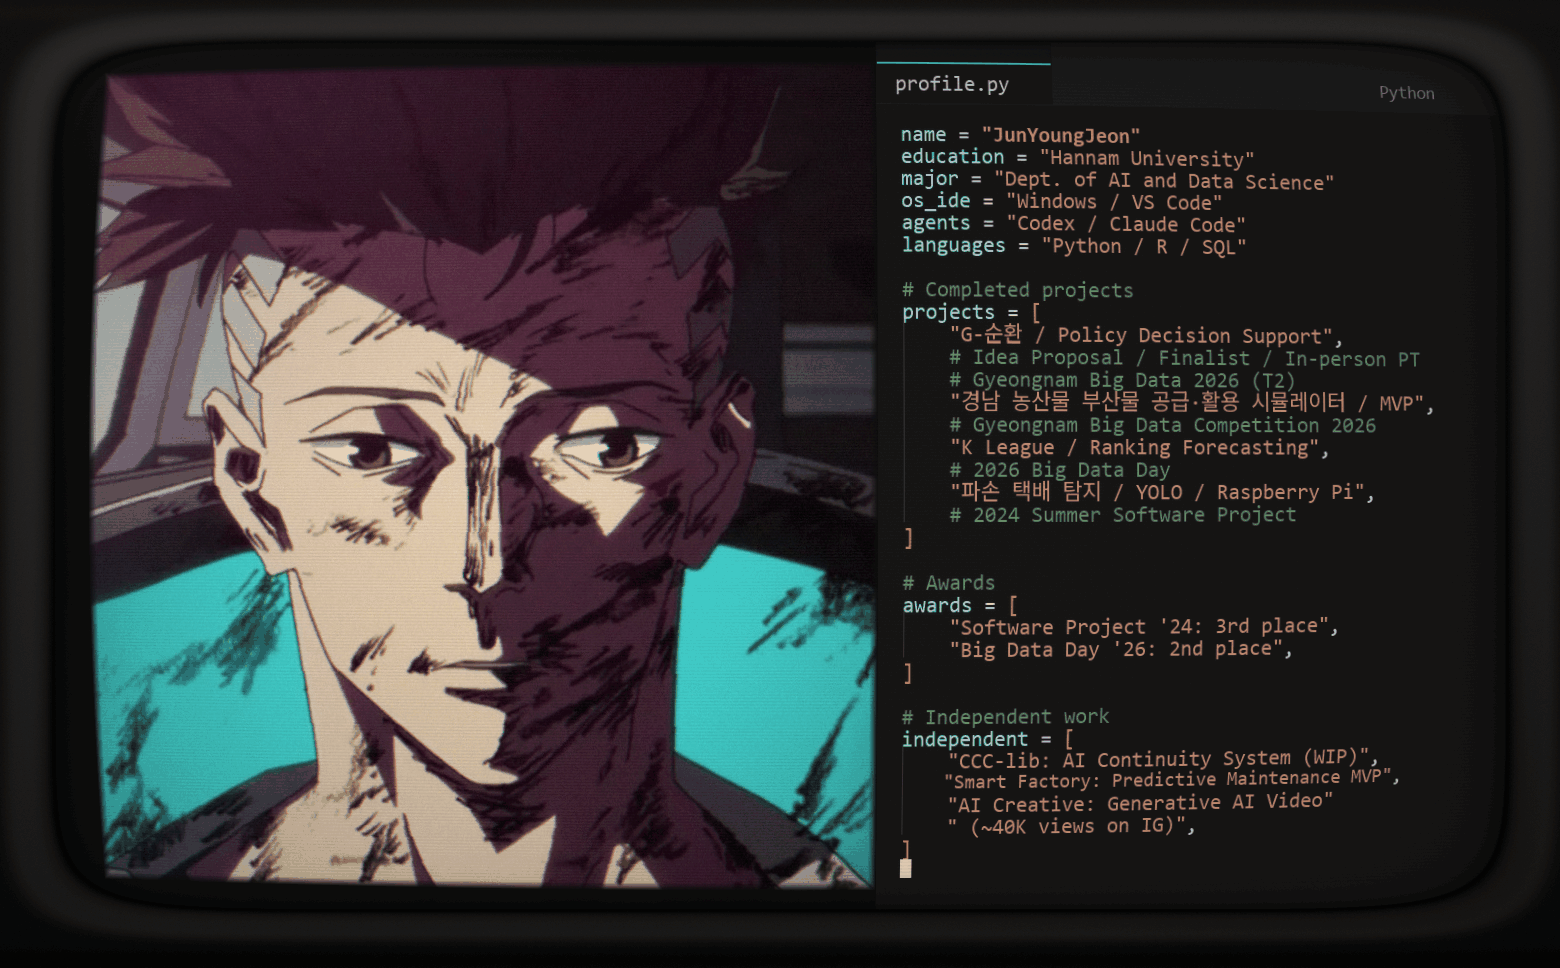
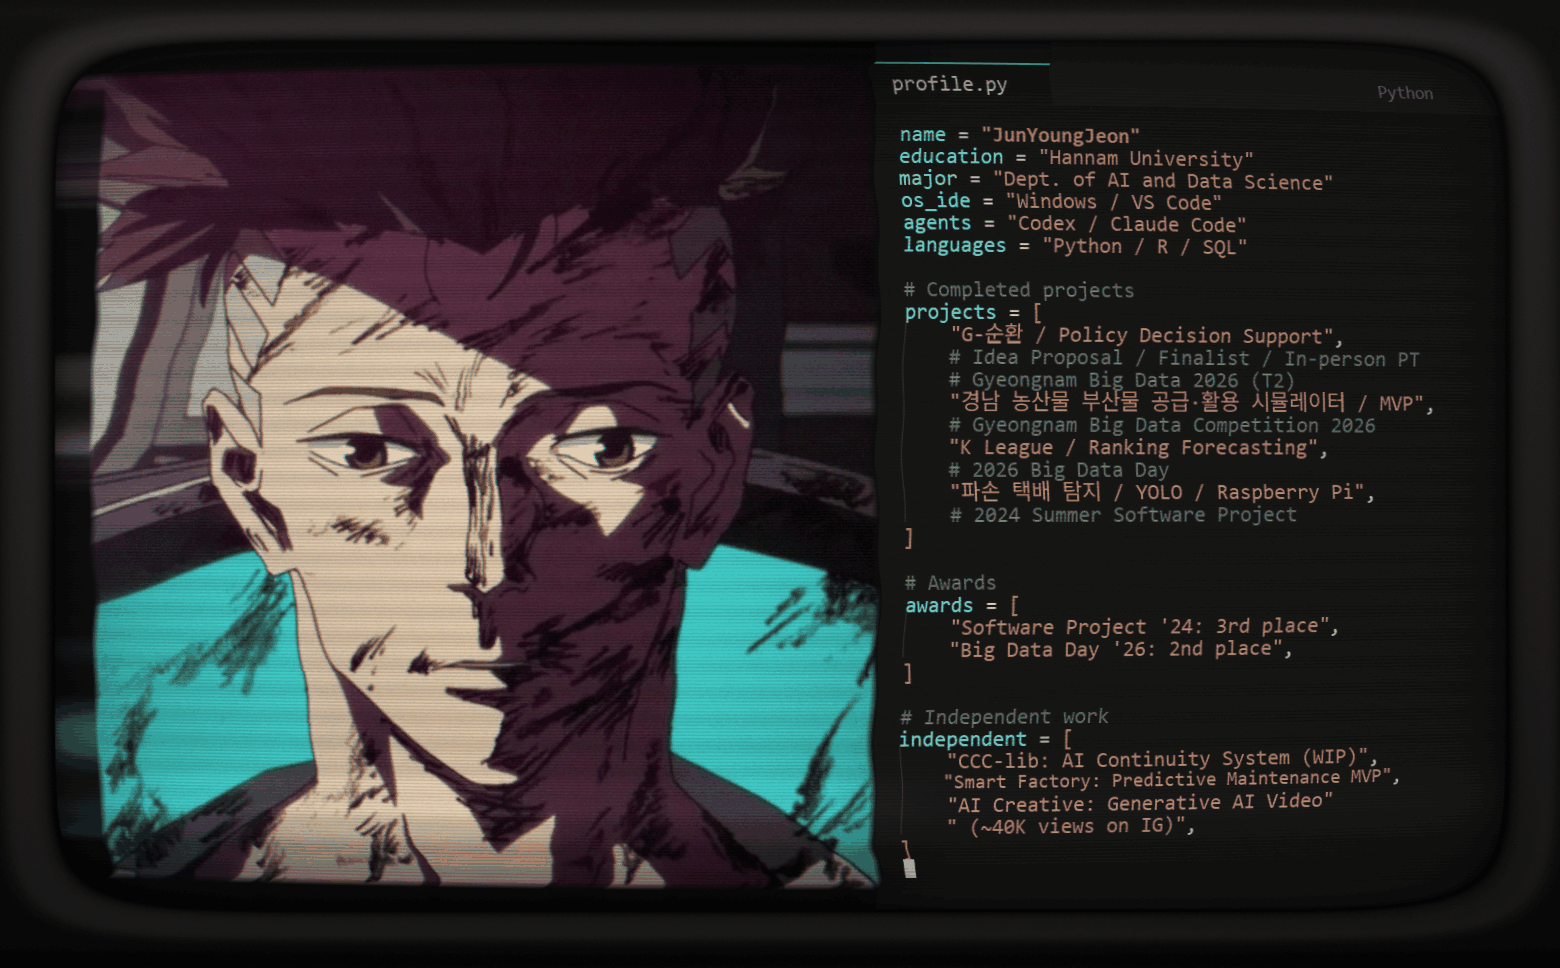
Enhance CRT rolling raster and horizontal sync waves

diff --git a/scripts/render_artisanal.py b/scripts/render_artisanal.py
@@ -195,8 +195,8 @@ class CRTGlass:
     """Procedural front-on CRT enclosure and curved glass projection.
 
     The source is the existing animated portrait and actual Python text,
-    not a generated mockup. All geometric and glass effects are static, so
-    the editor remains legible while the underlying portrait animates.
+    not a generated mockup. Glass geometry is static; animated raster effects are applied to the
+    signal before projection, with reduced strength in the editor.
     """
     def __init__(self):
         yy,xx=np.mgrid[0:OH,0:OW].astype(np.float32)
@@ -238,7 +238,7 @@ class CRTGlass:
         # Edge shadow follows the actual shape of the curved glass.
         edge_shadow=1-.44*np.exp(-np.maximum(dist,0)/12)
         glass_vignette=(1-.078*u*u-.055*v*v).clip(.70,1)
-        scan=1-.033*(np.cos(sy*math.pi*2/3.35)+1)*.5
+        scan=1-.105*(np.cos(sy*math.pi*2/3.35)+1)*.5
         self.gain=(edge_shadow*glass_vignette*scan)[...,None].astype(np.float32)
         # Broad, low-energy room reflection and a fine upper-edge glint.
         reflection=(4.6*np.exp(-((u+.61)/.51)**2-((v+.89)/.20)**2)
@@ -259,6 +259,41 @@ class CRTGlass:
         composite=curved*self.mask+self.case*(1-self.mask)
         return Image.fromarray(composite.clip(0,255).astype(np.uint8),"RGB")
 
+class RasterSignal:
+    """A rolling camera-versus-CRT refresh band, with analog sync drift.
+
+    Motion is periodic, not random flashing. The two panels share the same
+    moving raster; distortion and contrast are weaker over the code.
+    """
+    def __init__(self):
+        self.y,self.x=np.mgrid[0:H,0:W].astype(np.float32)
+        # Preserve text legibility without splitting the moving raster.
+        self.strength=1-.64*np.clip((self.x-(AW-20))/100,0,1)
+        self.yi=self.y.astype(np.int32)
+    def render(self,im,t):
+        phase=2*math.pi*t
+        # A wide dark retrace band and its softer luminous leading edge.
+        # Wrap in normalized screen coordinates for a continuous loop.
+        u=(self.y/H-t+.5)%1-.5
+        dark=np.exp(-(u/.078)**2)
+        bright=np.exp(-(((u+.103+.5)%1-.5)/.039)**2)
+        sync=np.exp(-(u/.047)**2)
+        drift=2.6*np.sin(self.y*.021-phase)+1.7*np.sin(self.y*.068+phase)
+        tear=(7.0*np.sin(self.y*.108-phase)+2.4*np.sin(self.y*.23+phase))*sync
+        sx=np.clip(self.x+(drift+tear)*self.strength,0,W-1)
+        x0=sx.astype(np.int32)
+        x1=np.minimum(x0+1,W-1)
+        f=(sx-x0).astype(np.float32)[...,None]
+        raw=np.asarray(im,dtype=np.float32)
+        warped=raw[self.yi,x0]*(1-f)+raw[self.yi,x1]*f
+        # Phosphor raster and a visible rolling exposure wave. No full-screen
+        # flashes, abrupt strobe, or changes to the underlying code content.
+        ripple=.032*np.sin(self.y*.24-phase*2)
+        gain=1+self.strength*(-.29*dark+.16*bright+ripple)
+        lift=self.strength*(7.5*bright-1.0*dark)
+        out=warped*gain[...,None]+lift[...,None]
+        return Image.fromarray(out.clip(0,255).astype(np.uint8),"RGB")
+
 def draw_block_cursor(im,data):
     # A terminal-style insertion cursor on the blank line after the code.
     # Draw before the CRT projection so it shares the screen's glass and glow.
@@ -273,28 +308,35 @@ def main():
     data=json.loads((A/"profile-record.json").read_text(encoding="utf-8"))
     s=data["stats"];n=lambda k:int(s[k].replace(",",""))
     assert n("additions")-n("deletions")==n("net_lines")
-    bg=panel(data);src=source();frames=[];crt=CRTGlass()
+    bg=panel(data);src=source();frames=[];crt=CRTGlass();raster=RasterSignal()
     for i in range(N):
         im=bg.copy();im.paste(art(i/N,src),(AX,AY))
         if (i//CURSOR_BLINK_FRAMES)%2==0:
             draw_block_cursor(im,data)
-        frames.append(crt.render(im))
-    palette=frames[0].quantize(colors=256,method=Image.Quantize.MEDIANCUT,dither=Image.Dither.NONE)
+        frames.append(crt.render(raster.render(im,i/N)))
+    palette=frames[0].quantize(colors=160,method=Image.Quantize.MEDIANCUT,dither=Image.Dither.NONE)
     converted=[im.quantize(palette=palette,dither=Image.Dither.NONE) for im in frames]
     converted[0].save(A/"profile-artisanal.png",optimize=True)
     out=A/"profile-artisanal.gif"
     converted[0].save(out,save_all=True,append_images=converted[1:],duration=DELAY,loop=0,optimize=True,disposal=1)
     with Image.open(out) as im:
         assert im.n_frames==N and im.size==(OW,OH) and im.info.get("loop")==0
-        allhash=[];right=[];cursor_states=[]
+        allhash=[];cursor_levels=[];edge_hash=[];editor_hash=[]
         for i in range(N):
             im.seek(i);r=im.convert("RGB")
+            assert im.info["duration"]==DELAY
             allhash.append(hashlib.sha256(r.tobytes()).hexdigest())
-            right.append(hashlib.sha256(r.crop((1000,0,OW,OH)).tobytes()).hexdigest())
-            cursor_states.append(hashlib.sha256(r.crop((890,0,OW,OH)).tobytes()).hexdigest())
-        assert len(set(allhash))==N and len(set(right))==1
-        assert len(set(cursor_states))==2 and cursor_states.count(cursor_states[0])==N//2
-        assert all((s==cursor_states[0])==((i//CURSOR_BLINK_FRAMES)%2==0) for i,s in enumerate(cursor_states))
+            # The outer bezel must remain still. The active screen may move.
+            edge_hash.append(hashlib.sha256(r.crop((0,0,32,32)).tobytes()).hexdigest())
+            editor_hash.append(hashlib.sha256(r.crop((1000,100,OW-75,800)).tobytes()).hexdigest())
+            cursor=np.asarray(r.crop((895,855,920,883)),dtype=np.float32)
+            cursor_levels.append(float(cursor.mean(axis=2).max()))
+        assert len(set(allhash))==N and len(set(edge_hash))==1
+        assert len(set(editor_hash))>N//2
+        on=[v for i,v in enumerate(cursor_levels) if (i//CURSOR_BLINK_FRAMES)%2==0]
+        off=[v for i,v in enumerate(cursor_levels) if (i//CURSOR_BLINK_FRAMES)%2==1]
+        assert min(on)>max(off)+35,(min(on),max(off))
+        print("RASTER_CURSOR_PASS",round(min(on),1),round(max(off),1),flush=True)
     assert out.stat().st_size<10_000_000,out.stat().st_size
     print("CRT_RENDER_PASS",OW,OH,N,DELAY,out.stat().st_size,flush=True)
 if __name__=="__main__":main()
